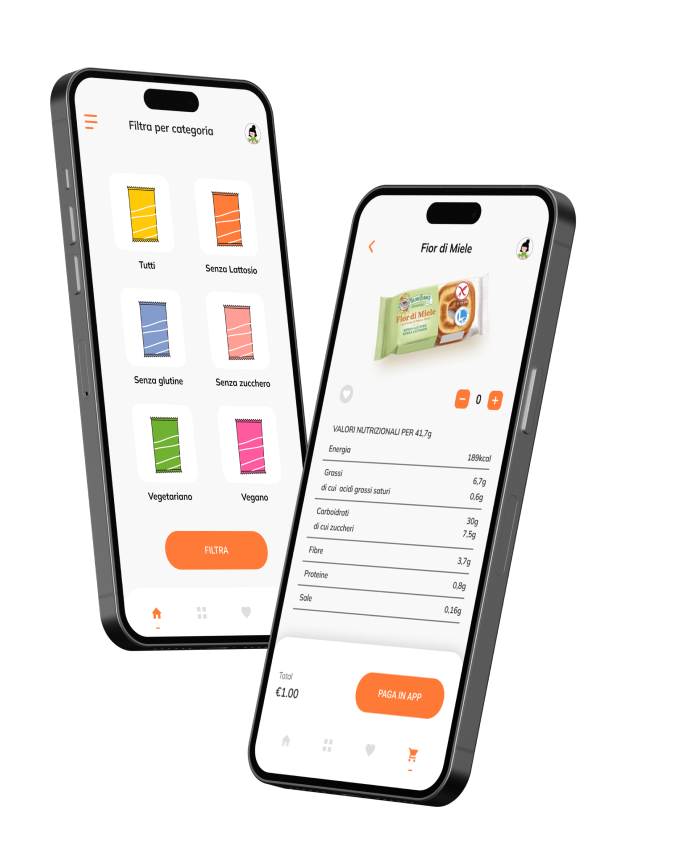
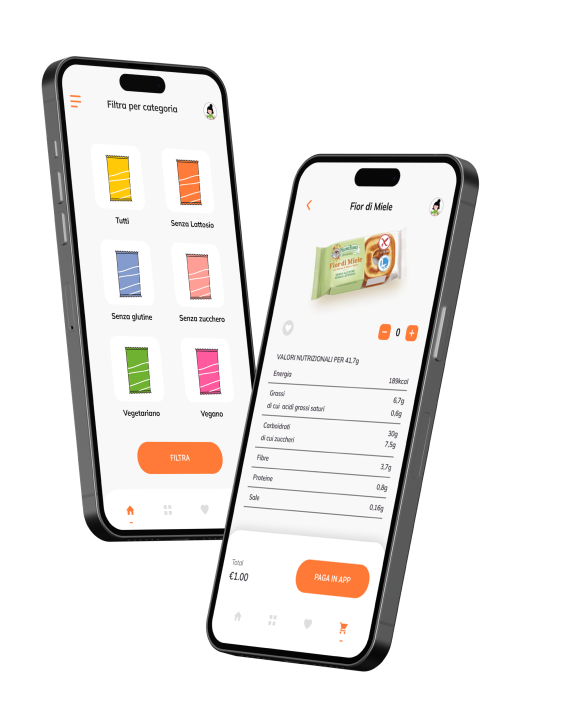
home page

diff --git a/index.html b/index.html
@@ -68,13 +68,12 @@
           <img src="img/google_badge.svg" alt="" class="svg">
         </section>
         <section class="secondo-bento">
-          <img src="img/snackit-mockup 2.png" alt="Mockup applicazione Snackit per la home page"
-            class="img-secondobento">
+          <img src="img/mockup1.png" alt="Mockup applicazione Snackit per la home page" class="img-secondobento">
         </section>
       </main>
 
       <section class="grid-container-2">
-        <img src="img/mockup2.png" alt="" class="img-terzobento-due">
+        <img src="img/mockup2.png" alt="" class="img-terzobento-due" width="568" height="702" >
         <article class="article-bento-tre">
           <h2>Come funziona?</h2>
           <p>Scansiona una macchinetta per ottenere gli ingredienti degli snack.
@@ -86,32 +85,38 @@
             a trovare le macchinette Snackit in cui è disponibile. </p>
           <a href="#" class="cta">scopri l'app</a>
         </article>
-        <img src="img/scan.png" alt="" class="img-due-terzobento-due">
+        <img src="img/scan.png" alt="" class="img-due-terzobento-due" width="515" height="513">
       </section>
 
-      <section class="grid-container-3">
-        <article class="article uno">
-          <h3>Come scegliere snack sani con
-            l'aiuto di un'app gratuita</h3>
+      <section class="grid-container-3"> 
+        <article class="article uno"  aria-label="Articolo Come scegliere snack sani con l'aiuto di un'app gratuita">
+          <div class="article-layer"></div>
+          <a href="#"><h3 class="article-text">Come scegliere snack sani con
+            l'aiuto di un'app gratuita</h3></a>
         </article>
-        <article class="article due">
-          <h3>Macchinette snack: una risorsa
-            per chi ha esigenze alimentari </h3>
+        <article class="article due" aria-label="Articolo Macchinette snack: una risorsa
+        per chi ha esigenze alimentari">
+          <div class="article-layer"></div>
+          <a href="#"><h3 class="article-text">Macchinette snack: una risorsa
+            per chi ha esigenze alimentari </h3></a>
         </article>
       </section>
 
       <section class="grid-container-4">
-        <article class="article tre">
-          <h3>Snack senza glutine e lattosio:
-            un'opzione per tutti</h3>
+        <article class="article tre" aria-label="Articolo Snack senza glutine e lattosio: un'opzione per tutti">
+          <div class="article-layer"></div>
+          <a href="#"><h3 class="article-text">Snack senza glutine e lattosio:
+            un'opzione per tutti</h3></a>
         </article>
-        <article class="article quattro">
-          <h3>Snack per una dieta equilibrata:
-            le migliori opzioni</h3>
+        <article class="article quattro" aria-label="Articolo Snack per una dieta equilibrata: le migliori opzioni">
+          <div class="article-layer"></div>
+          <a href="#"><h3 class="article-text">Snack per una dieta equilibrata:
+            le migliori opzioni</h3></a>
         </article>
-        <article class="article cinque">
-          <h3>Spuntini Vegani: una scelta
-            gustosa e sostenibile</h3>
+        <article class="article cinque" aria-label="Article Spuntini Vegani: una scelta gustosa e sostenibile">
+          <div class="article-layer"></div>
+          <a href="#"><h3 class="article-text">Spuntini Vegani: una scelta
+            gustosa e sostenibile</h3></a>
         </article>
       </section>
 
@@ -172,7 +177,7 @@
         </section>
       </div>
     </footer>
-    
+
   </header>
 </body>
 

diff --git a/style.css b/style.css
@@ -23,7 +23,7 @@ body {
 
 .container {
   margin: 0 auto;
-  width: 1450px;
+  width: 1200px;
 }
 
 .logo {
@@ -48,7 +48,7 @@ body {
 
   grid-template-columns: repeat(2, 1fr);
   grid-template-rows: 1fr;
-  gap: 2em;
+  gap: 1em;
 
   margin-top: 130px;
 }
@@ -106,7 +106,7 @@ p {
   display: grid;
 
   grid-template-columns: repeat(2, 1fr);
-  grid-template-rows: repeat(2, 1fr);
+  grid-template-rows: 1.2fr 1fr;
   gap: 2em;
 
   margin-top: 2em;
@@ -117,12 +117,12 @@ p {
 
   border-radius: 50px;
 
-
   padding: 2em;
 }
 
 h2 {
   font-size: 70px;
+  line-height: 70px;
 
   color: white;
 
@@ -181,20 +181,50 @@ h2 {
 }
 
 .article {
+  padding: 2em;
+  min-height: 300px;
+  align-content: end;
+
+  position: relative;
+  overflow: hidden;
   border-radius: 50px;
+
+  background-position: center;
+  background-size: cover;
+}
+
+.article-text {
+  position: relative;
+  z-index: 1;
+}
+
+.article-layer {
+  position: absolute;
+  top: 0;
+  right: 0;
+  bottom: 0;
+  left: 0;
+
+  z-index: 0;
+
+  background-color: rgba(0, 0, 0, 0.292);
+  /* mix-blend-mode:soft-light; */
+}
+
+.article a{
+  text-decoration: none;
 }
 
 h3 {
-  font-size: 40px;
+  font-size: 32px;
   color: white;
+
+  margin: 0;
 }
 
 .uno {
   background-image: url(img/article-uno.png);
-  background-position: center;
-  background-size: cover;
-
-  padding: 5em;
+ 
 
   grid-row: 1/2;
   grid-column: 1/2;
@@ -203,11 +233,7 @@ h3 {
 
 .due {
   background-image: url(img/article-due.png);
-  background-position: center;
-  background-size: cover;
-
-  padding: 5em;
-
+  
   grid-row: 1/2;
   grid-column: 2/3;
 }
@@ -226,10 +252,6 @@ h3 {
 
 .tre {
   background-image: url(img/article-tre.png);
-  background-position: center;
-  background-size: cover;
-
-  padding: 5em;
 
   grid-row: 1/2;
   grid-column: 1/2;
@@ -237,10 +259,6 @@ h3 {
 
 .quattro {
   background-image: url(img/article-quattro.png);
-  background-position: center;
-  background-size: cover;
-
-  padding: 5em;
 
   grid-row: 1/2;
   grid-column: 2/3;
@@ -248,10 +266,6 @@ h3 {
 
 .cinque {
   background-image: url(img/article-cinque.png);
-  background-position: center;
-  background-size: cover;
-
-  padding: 5em;
 
   grid-row: 1/2;
   grid-column: 3/4;
@@ -345,6 +359,8 @@ footer p {
   flex-direction: column;
 
   margin-top: 50px;
+
+  align-items: flex-start
 }
 
 h4 {
